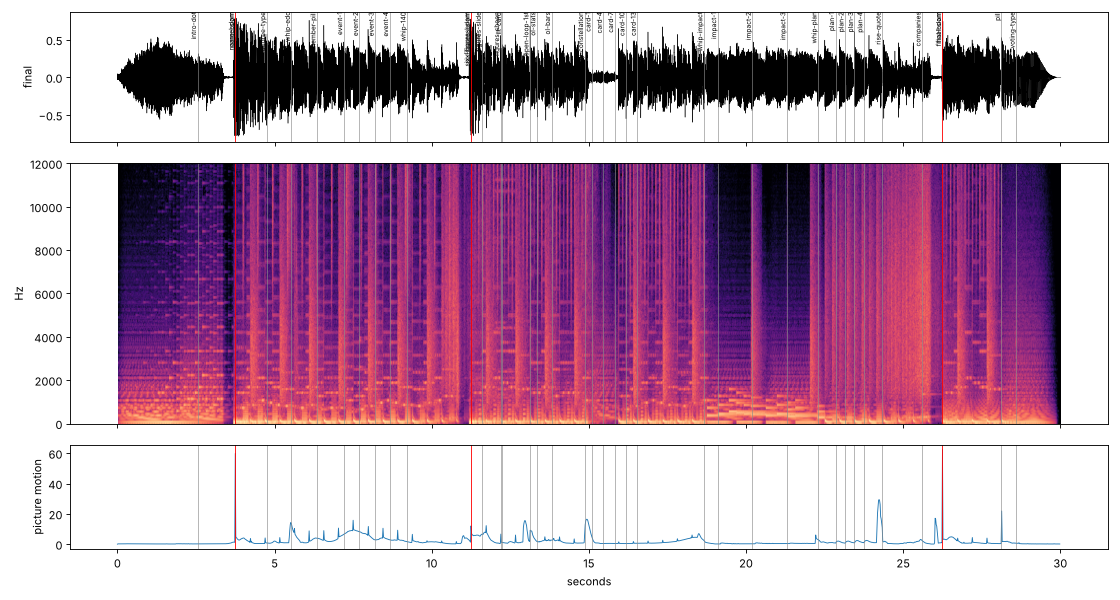
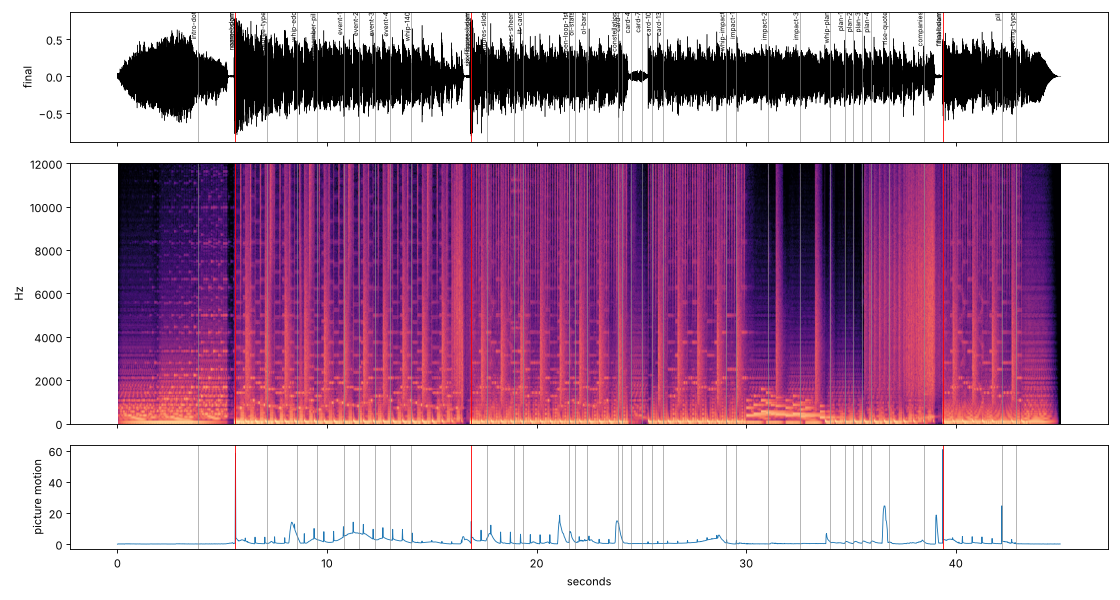
Sound layer for the 45 s cut: re-timed cues, heavier hero booms, QA notes
Claude-Session: https://claude.ai/code/session_016TJqv9iRBSjYpu4iPQk6vi

diff --git a/videos/karan-edc-reel/LISTEN.md b/videos/karan-edc-reel/LISTEN.md
@@ -1,18 +1,25 @@
-# Listen check: karan-showreel (sound layer v1)
+# Listen check: karan-showreel v4 (45 s)
 
-Sounds are real CC0 recordings from the opus-sound-layer kit (see audio/kit/CREDITS.md),
-placed on the picture's own timing. Music is the synthesized bed from audio-src/score_v2.py.
-A human ear check is the final call. These are not a verdict that the sound is good.
+Sounds are real CC0 recordings from the opus-sound-layer kit (audio/kit/CREDITS.md),
+placed from the picture's own timing (audio/cues.json). Music is the synthesized bed
+audio-src/score_45.py (128 BPM, 96 beats). A human ear check is the final call.
 
 Timecodes to check by ear:
-1. 0:03.75: name slam (hero hit + boom)
-2. 0:11.25: "6 FIGURES+" slam (hero)
-3. 0:13.13: "1ST" hit
-4. 0:19.10: first impact stat
-5. 0:26.25: closing slam (hero)
+1. 0:05.6: name slam (hero hit + boom)
+2. 0:16.9: "6 FIGURES+" revenue slam (hero; the longest hold in the film, to 0:21.5)
+3. 0:21.6: "1ST" Open Loop hit
+4. 0:24.4: whoosh as the camera flies into the proof cards
+5. 0:39.4: closing slam into KARAN FOR EDC PRESIDENT (hero)
 
-QA result (sound-layer qa.py, last run): 18 FAIL, 33 warnings. Not fixed:
-- Picture: name and 6-figures slams land while the picture is still moving (picture timing, not sound).
-- Hero body: the 6-figures hits are short on low end.
-- Audible: small cues (intro dot, event 3-4, plan 4, whip, card 10/13, impact 2) sit under the music.
-- True peak -0.97 dBTP, limit -1.0.
+QA (sound-layer qa.py, after 2 fix rounds): 14 FAIL, 30 warnings.
+- Pass: all three hero hits now lift the 125-250 Hz band 5.6-7.0 dB (needs 3); music level steady.
+- Fail, picture: at 16.9 s the frame change is a fast camera move + gold fade, not a hard cut,
+  so the "cut" check does not find a clean frame change (motion spike ~12 vs ~60 at the other heroes).
+- Fail, sync: the 6-figures hit's peak is 1.6 frames after its cue.
+- Fail, audible: small cues (degree type, best-member pill, events 1 and 4, figures sheen,
+  card 13, impact 1, plans 1 and 4) sit under the music.
+- Fail, true peak: -0.28 dBTP (limit -1.0).
+
+qa.png at the hero cues: at 5.6 s, 16.9 s and 39.4 s the waveform shows a short dip
+(stop_before) then a full-band spike from the sub up past 10 kHz; picture-motion spikes are tall
+at 5.6 s and 39.4 s and small at 16.9 s.
